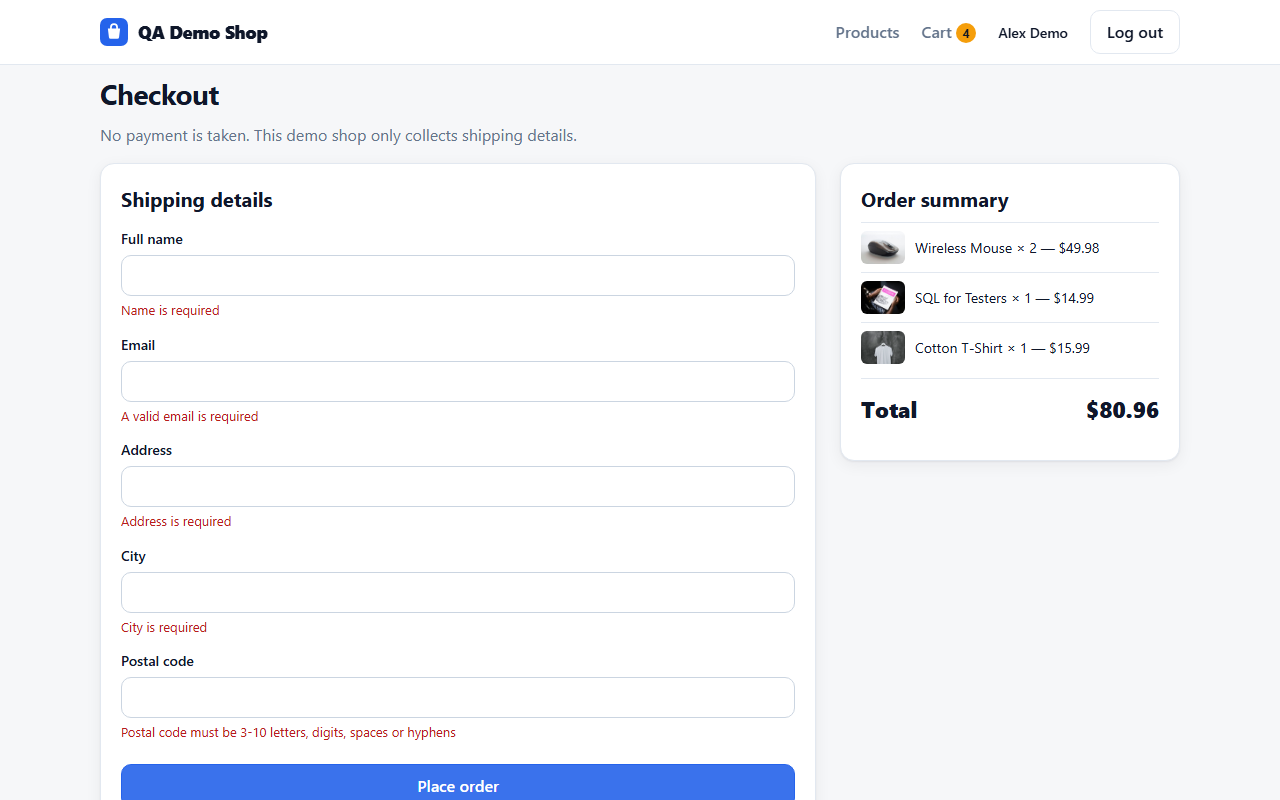
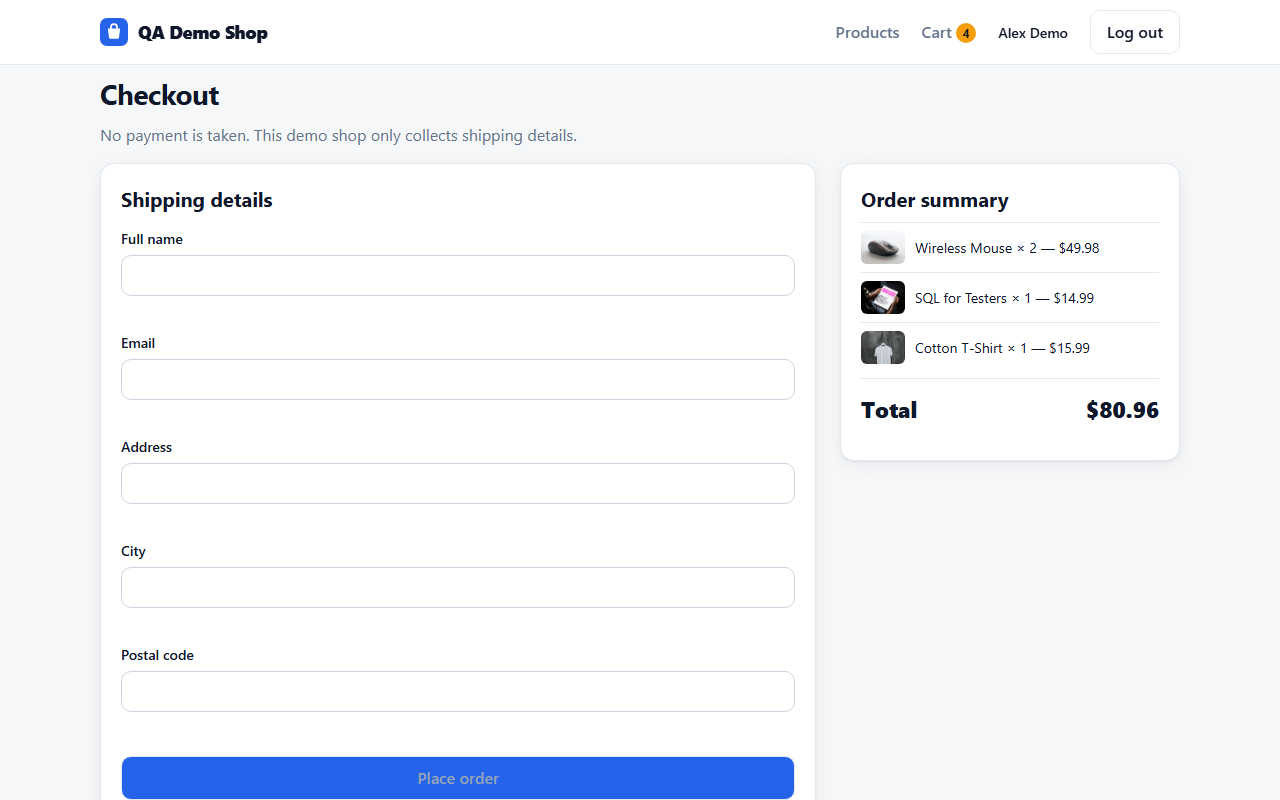
Hide local file paths in screenshots and update Upwork texts
- take-screenshots.mjs shortens C:\Users\<name>\... paths in the report
  screenshots before capturing them
- Regenerated the affected screenshots
- UPWORK-PORTFOLIO.md: final project description, new image order and
  skill tags, rewritten profile overview, profile settings checklist

diff --git a/docs/UPWORK-PORTFOLIO.md b/docs/UPWORK-PORTFOLIO.md
@@ -1,22 +1,25 @@
-# Upwork portfolio entry (ready to paste)
+# Upwork: ready-to-paste texts
 
-Add it at: Upwork profile > Portfolio > Add project. Attach the images from `docs/images/` (see the list at the end).
-Every number below comes from real runs of this repository.
+Every number below comes from real runs of this repository (270 test executions, 202 documented test cases, 10 of 10 injected bugs caught, CI green on GitHub Actions).
 
-## Project title
+## 1. Portfolio project: Add project (or edit the existing one)
 
-E-Commerce QA Automation Framework: Playwright, TypeScript, API and PostgreSQL testing with CI
+**Title:** QA Automation: Playwright, TypeScript, API and PostgreSQL
 
-## Project link
+**Project link:** https://github.com/BENOURO/ecommerce-qa-automation
 
-https://github.com/BENOURO/ecommerce-qa-automation
+**Skills (Upwork allows 10):** Playwright, TypeScript, Test Automation, API Testing, PostgreSQL, SQL, GitHub Actions, CI/CD, QA Testing, Node.js
 
-## Skills to tag
+**Images, in this order** (all in `docs/images/`):
+1. `report-passing.png`: the HTML report, 270 passing (cover image)
+2. `report-failure-detail.png`: a caught defect, expected versus received
+3. `shop-products.png`: the application under test
+4. `shop-checkout-validation.png`: checkout validation
+5. A screenshot of the green run in your repository's Actions tab (take it yourself)
 
-Playwright, TypeScript, Test Automation, QA Testing, API Testing, PostgreSQL, SQL, GitHub Actions, CI/CD, Quality Assurance, Test Automation Framework, Node.js
+**Description** (about 2,400 characters; Upwork allows 5,000):
 
-## Description (fits Upwork's 5,000-character limit)
-
+```
 I built a complete automated testing framework that tests an e-commerce web shop from the user interface, through its API, down to the PostgreSQL database, and checks that all three layers agree.
 
 THE PROBLEM IT SOLVES
@@ -27,7 +30,7 @@ WHAT I DELIVERED
 - Coverage of authentication and sessions, product search, filters and sorting, shopping cart, checkout and orders, authorization (401/403), input validation, SQL injection attempts, and database integrity rules (unique, check, not-null and foreign keys).
 - Page Object Model, reusable fixtures, generated test data with automatic cleanup, parallel execution, and no sleeps (Playwright auto-waiting and web-first assertions).
 - A professional HTML report with totals, durations, failure details, screenshots and traces.
-- A GitHub Actions pipeline that starts PostgreSQL, runs the full suite on every push (about 1 minute 15 seconds in CI), and publishes the report.
+- A GitHub Actions pipeline that starts PostgreSQL, runs the full suite on every push (about 1 minute 15 seconds), and publishes the report.
 - A test case document with ID, priority, preconditions, steps and expected result for every case, checked automatically so it cannot drift from the code.
 
 PROOF THAT THE TESTS WORK
@@ -35,31 +38,48 @@ PROOF THAT THE TESTS WORK
 - While building it, the tests found 4 real bugs in the application, including a double-click that created two orders and an empty cart that still showed its checkout button.
 
 HOW I WORK
-- I read the specification, plan the test cases, then automate the highest-risk paths first (money, security, data integrity).
-- I investigate failures down to the root cause instead of adding waits or retries, and I report honestly what passed, what failed and what I could not verify.
+I plan test cases from the specification, automate the highest-risk paths first (money, security, data integrity), investigate failures down to the root cause instead of adding waits, and report honestly what passed, what failed and what I could not verify.
 
 TECH STACK
 TypeScript, Playwright, Node.js, PostgreSQL (Docker Compose), Express, GitHub Actions.
 
-The repository includes a README, architecture diagram, screenshots, and instructions to run everything with a few commands.
+The repository has a README, architecture diagram, screenshots, and instructions to run everything with a few commands. The shop under test is my own demo application, which lets me test the real API and database.
+```
 
-## Short version (for the project card or a proposal)
+## 2. Profile overview (replace the Overview text)
 
-Full QA automation framework (Playwright + TypeScript + PostgreSQL + GitHub Actions): 270 automated tests across UI, API and database, cross-layer checks, an HTML report, CI, and 10 injected bugs that the suite catches (10 of 10). Repository: https://github.com/BENOURO/ecommerce-qa-automation
+```
+I help businesses test their web applications, find bugs, and make sure everything works before it reaches users. I also automate the checks that matter, so they run automatically on every release.
 
-## Suggested profile overview paragraph
+I have a software development background (JavaScript, TypeScript, Vue.js, Spring Boot), so I understand an application from both the user's and the developer's side.
 
-I am a QA automation engineer focused on Playwright and TypeScript. I test web applications from the browser to the API to the database, so a wrong total or a leaked field is caught wherever it hides. My portfolio project (link above) shows a full framework with CI, reports and documented test cases.
+FEATURED PROJECT (see my portfolio)
+A full Playwright + TypeScript automation framework with PostgreSQL checks and GitHub Actions CI: 270 automated tests across UI, API and database, an HTML report, and 10 injected bugs that the suite catches (10 of 10).
 
-## Images to attach, in this order
+MY SERVICES
+- Playwright test automation (TypeScript / JavaScript) with CI pipelines
+- API testing with Playwright and Postman: requests, responses, authentication, error handling
+- Database validation with SQL (PostgreSQL): data integrity and API-to-database consistency
+- Manual website testing: functional testing, user flows, UI/UX issues
+- Bug reporting: clear reproduction steps, screenshots, detailed reports
+- Regression testing: making sure existing features still work after updates
+- Cross-browser testing: checking behavior across different browsers
 
-1. `docs/images/report-passing.png`: the HTML report, all passing
-2. `docs/images/report-failure-detail.png`: a caught defect, expected versus received
-3. `docs/images/shop-products.png`: the application under test
-4. `docs/images/shop-checkout-validation.png`: the checkout validation
-5. A screenshot of the green GitHub Actions run (take it from your repository's Actions tab)
+TOOLS AND TECHNOLOGIES
+Playwright, TypeScript, JavaScript, Postman, SQL and PostgreSQL, GitHub Actions, Docker, Git and GitHub, React and Vue.js, Spring Boot, Python.
+
+I focus on clear communication, detailed reporting and reliable results. Whether you need a new feature tested, a bug investigated, an API validated, or your key user flows automated, I can help.
+
+Let's find the problems before your users do.
+```
+
+## 3. Profile settings to change
+
+- Add these to your profile **Skills**: TypeScript, PostgreSQL, SQL, GitHub Actions, CI/CD, API Testing, Docker, Node.js.
+- Turn on **Open for work** (it is Off now), so clients can find and invite you.
+- Optional: a short video introduction, and a skills test or certification related to QA.
 
 ## Before you publish
 
-- Do not claim client work. The shop is your own demo application, and the README says so.
-- If a client asks, be ready to explain the "Known limitations" section of the README.
+- Do not present the shop as client work. The README says it is your own demo application.
+- Be ready to explain the "Known limitations" section of the README if a client asks (for example: tests run in Chromium only).
